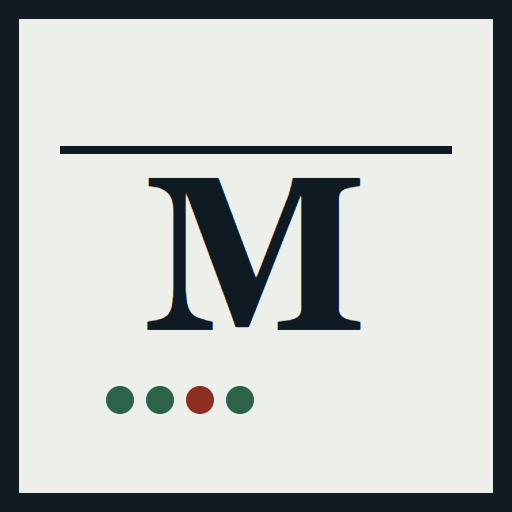
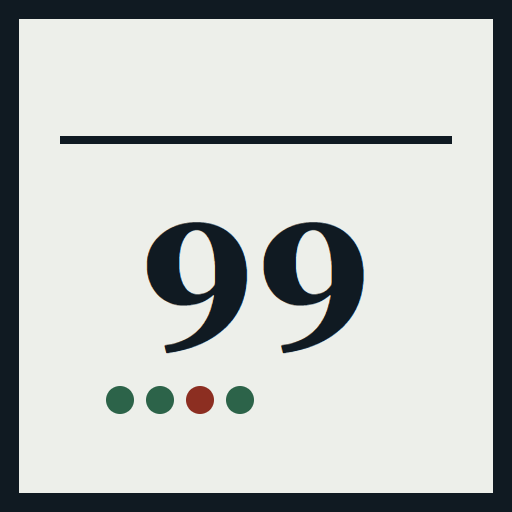
Rename app to 99stayqs
Updates the visible title, header, manifest, and app icons; bumps the
service worker cache so the old assets don't linger for existing users.

Changed region(s): [[0.2812, 0.3438, 0.7188, 0.6875], [0.0938, 0.25, 0.9062, 0.3125]]

diff --git a/index.html b/index.html
@@ -3,8 +3,8 @@
 <head>
 <meta charset="utf-8">
 <meta name="viewport" content="width=device-width, initial-scale=1, viewport-fit=cover">
-<title>Masaniello Docket</title>
-<meta name="description" content="A self-contained Masaniello staking cycle calculator and tracker.">
+<title>99stayqs</title>
+<meta name="description" content="A self-contained staking cycle calculator and tracker.">
 <meta name="theme-color" content="#E3E6E0" media="(prefers-color-scheme: light)">
 <meta name="theme-color" content="#121A1E" media="(prefers-color-scheme: dark)">
 <link rel="manifest" href="manifest.webmanifest">
@@ -13,7 +13,7 @@
 <link rel="apple-touch-icon" href="icons/icon-192.png">
 <meta name="apple-mobile-web-app-capable" content="yes">
 <meta name="apple-mobile-web-app-status-bar-style" content="black-translucent">
-<meta name="apple-mobile-web-app-title" content="Masaniello">
+<meta name="apple-mobile-web-app-title" content="99stayqs">
 <link rel="preconnect" href="https://fonts.googleapis.com">
 <link rel="preconnect" href="https://fonts.gstatic.com" crossorigin>
 <link href="https://fonts.googleapis.com/css2?family=Archivo:wght@400;500;600;700&family=Fraunces:opsz,wght@9..144,400;9..144,600;9..144,800&display=swap" rel="stylesheet">
@@ -185,7 +185,7 @@ kbd{font:inherit;font-size:.85em;border:1px solid var(--rule-hard);border-bottom
 <div class="wrap">
 
   <header class="masthead">
-    <h1>Masaniello Docket</h1>
+    <h1>99stayqs</h1>
     <div class="spec" id="spec">10 events · 3 wins · 1.87</div>
   </header>
 

diff --git a/sw.js b/sw.js
@@ -1,5 +1,5 @@
 "use strict";
-var CACHE = "masaniello-v1";
+var CACHE = "99stayqs-v2";
 var ASSETS = [
   "./",
   "./index.html",
